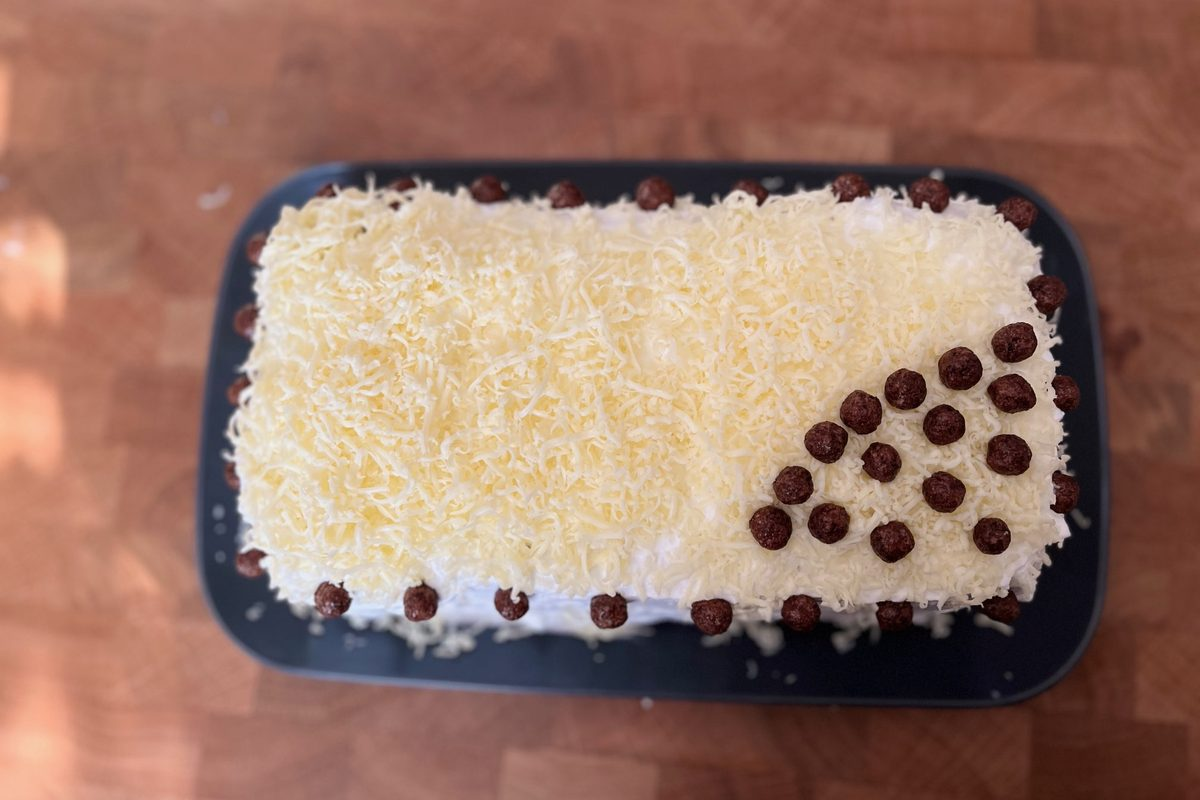
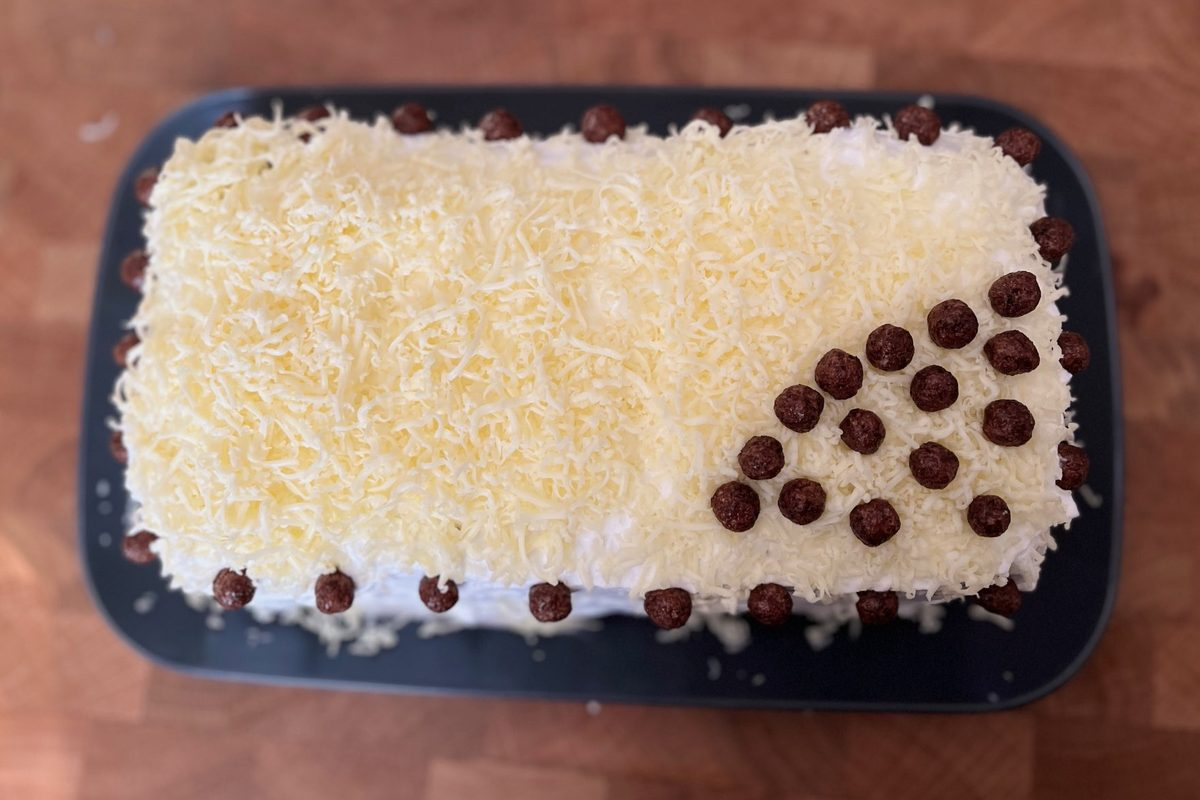
Crop banana cake photo tighter around the cake
Claude-Session: https://claude.ai/code/session_01CFBBPraQVDpdnYFSx1RxKX

diff --git a/sw.js b/sw.js
@@ -1,4 +1,4 @@
-const CACHE = "pantree-v39";
+const CACHE = "pantree-v40";
 const FILES = ["./", "index.html", "style.css", "app.js", "manifest.json", "icons/icon-192.png", "icons/icon-512.png", "icons/icon-maskable-512.png", "icons/apple-touch-icon-v2.png", "apple-touch-icon.png", "icons/favicon-32.png", "img/fluffy-pancakes.jpg", "img/lupis.jpg", "img/paczki.jpg", "img/tiramisu.jpg", "img/banana-sour-cream-cheese-cake.jpg", "img/katsu-chicken-curry.jpg", "img/sw-chicken-tikka-masala.jpg", "img/sw-fish-tacos.jpg", "img/sw-grilled-salmon.jpg", "img/sw-lasagne.jpg", "img/sw-spaghetti-carbonara.jpg"];
 
 // Cache each file on its own so one bad file can't stop the app from installing offline.
